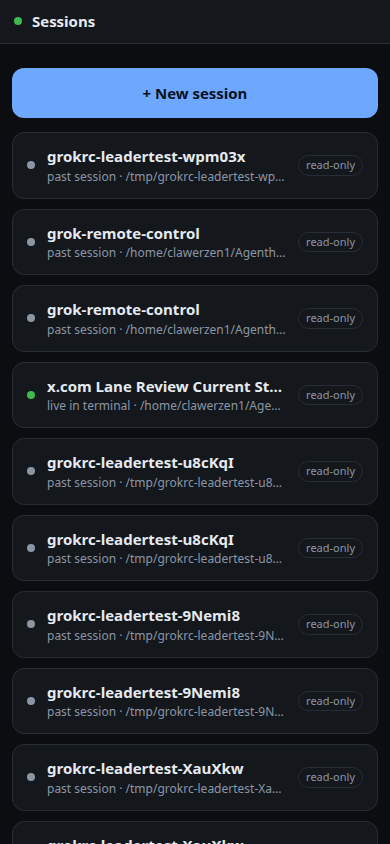
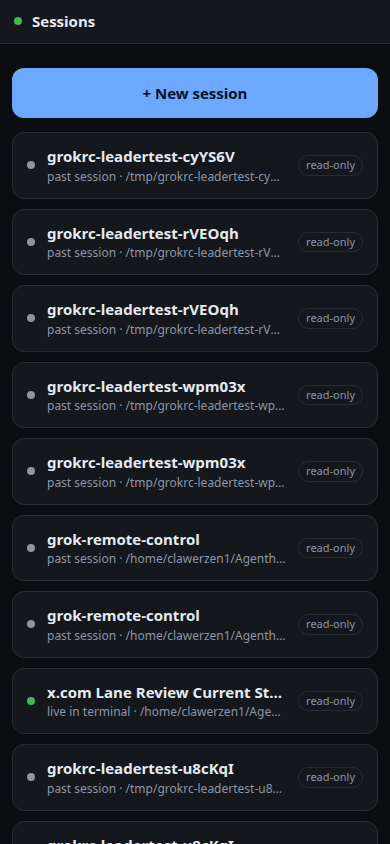
Client reconnect: keep the session, stop dropping typed messages
First sweep of web/app.js — the file with the highest defect rate and, until now,
the least scrutiny. Run under the bug-sweep directive: reproduce first, verify
both sides, evidence per claim.

FINDING 1 — a reconnect threw you out of your session.  REPRODUCED
  `ready` unconditionally called show(vList). On the FIRST connect that is
  correct; on a RECONNECT the user is usually mid-session, so a network blip
  dumped them back to the list with no explanation — losing their place while a
  turn was still running. Now reopens the session that was in view.

FINDING 2 — a prompt typed while disconnected vanished.  REPRODUCED
  sendMsg() returned early when readyState !== 1, silently discarding the
  payload. Same failure mode as the swallowed prompt rejection fixed earlier:
  the user types, presses send, and nothing happens anywhere.
  User-authored messages (prompt, approve) are now queued and flushed on
  reconnect with a visible notice. Bookkeeping frames are still dropped —
  replaying a stale `sessions` request after reconnect is noise.

TEST DISCIPLINE — the part worth recording
  The first version of the reconnect test PASSED against the buggy code. It
  waited on the `live` indicator, but setConn('live') fires on socket OPEN,
  before the `ready` frame is handled — so it sampled the view before `ready`
  could switch it, and reported the bug as absent.
  Caught only because the directive requires running the corrected test against
[…]

diff --git a/test/reconnect.test.ts b/test/reconnect.test.ts
@@ -1,0 +1,139 @@
+/**
+ * Connection-layer behaviour in the browser client.
+ *
+ * Written BEFORE the fixes, to establish whether these are real defects or just
+ * things that look wrong when read (directive D1). Each case drives the real PWA
+ * in Chromium against a real daemon, then disrupts the socket.
+ */
+import { strict as assert } from 'node:assert';
+import { test, before, after } from 'node:test';
+import { mkdtemp, rm } from 'node:fs/promises';
+import { tmpdir } from 'node:os';
+import { join, resolve } from 'node:path';
+import { chromium, type Browser, type Page } from 'playwright';
+
+const tmp = await mkdtemp(join(tmpdir(), 'grokrc-reconnect-'));
+process.env.GROKRC_HOME = tmp;
+
+const { AuthStore } = await import('../src/daemon/auth.ts');
+const { SessionManager } = await import('../src/daemon/session-manager.ts');
+const { RemoteControlServer } = await import('../src/daemon/server.ts');
+const { MockTransport } = await import('../src/acp/mock-transport.ts');
+
+let n = 0;
+const auth = new AuthStore();
+await auth.load();
+const sessions = new SessionManager({
+  transportFactory: () => new MockTransport({ sessionId: `rc-${++n}` }),
+});
+const server = new RemoteControlServer({
+  host: '127.0.0.1',
+  port: 0,
+  webRoot: resolve(import.meta.dirname, '../web'),
+  sessions,
+  auth,
+  defaultCwd: '/tmp/demo',
+});
+const { port } = await server.listen();
+const base = `http://127.0.0.1:${port}`;
+
+let browser: Browser;
+let page: Page;
+
+before(async () => {
+  browser = await chromium.launch();
+  const ctx = await browser.newContext({ viewport: { width: 390, height: 844 } });
+  page = await ctx.newPage();
+
+  const { code } = auth.beginPairing();
+  await page.goto(base);
+  await page.fill('#code', code);
+  await page.click('#pair-go');
+  await page.waitForSelector('#v-list.on', { timeout: 20_000 });
+});
+
+after(async () => {
+  await browser?.close();
+  sessions.closeAll();
+  await server.close();
+  await rm(tmp, { recursive: true, force: true });
+});
+
+/** Force a socket drop from inside the page, as a network blip would. */
+async function dropSocket(): Promise<void> {
+  await page.evaluate(() => {
+    // Close with a non-4401 code so the client takes its reconnect path.
+    const s = (globalThis as unknown as { __rcws?: WebSocket }).__rcws;
+    // 1006 is reserved and browsers refuse to send it; 4000 is a valid app code
+    // that is NOT 4401, so the client takes its reconnect path.
+    s?.close(4000, 'simulated drop');
+  });
+}
+
+test('a session can be opened', async () => {
+  await page.click('#v-list button.btn-primary');
+  await page.waitForSelector('#v-session.on', { timeout: 20_000 });
+  assert.equal(await page.isVisible('#composer'), true);
+});
+
+test('the client survives a socket drop and stays in the session', async () => {
+  // The bug under test: on reconnect the client handles `ready` by calling
+  // show(vList), which throws you out of the session you were reading —
+  // mid-turn, with no way to know why.
+  const before = (await page.textContent('#title'))?.trim();
+
+  await dropSocket();
+
+  // Waiting on the `live` indicator alone is NOT enough: setConn('live') fires
+  // on socket OPEN, before the `ready` frame is handled. An earlier version of
+  // this test did exactly that and passed against the buggy code, because it
+  // sampled the view before `ready` could switch it. Wait for the socket to be
+  // genuinely OPEN *and* for a full round trip to have been processed.
+  await page.waitForFunction(
+    () => {
+      const ws = (globalThis as unknown as { __rcws?: WebSocket }).__rcws;
+      return ws?.readyState === 1;
+    },
+    undefined,
+    { timeout: 20_000 }
+  );
+  // Give the ready/sessions handling a beat to run to completion.
+  await page.waitForTimeout(1500);
+
+  const sessionStillOpen = await page.evaluate(
+    () => document.getElementById('v-session')?.classList.contains('on') ?? false
+  );
+  const after = (await page.textContent('#title'))?.trim();
+
+  assert.equal(
+    sessionStillOpen,
+    true,
+    `reconnect kicked the user back to the session list (title was "${before}", now "${after}")`
+  );
+});
+
+test('a prompt sent while disconnected is reported, not silently dropped', async () => {
+  // sendMsg() returns early when readyState !== 1, so the message vanishes with
+  // no feedback — the same failure mode as the swallowed prompt rejection.
+  await page.evaluate(() => {
+    const s = (globalThis as unknown as { __rcws?: WebSocket }).__rcws;
+    s?.close(4000, 'drop before send');
+  });
+
+  await page.fill('#input', 'this must not vanish');
+  await page.click('#send');
+
+  const surfaced = await page
+    .waitForFunction(
+      () => {
+        const t = document.getElementById('v-session')?.textContent ?? '';
+        return /reconnect|not connected|disconnected|queued/i.test(t);
+      },
+      undefined,
+      { timeout: 8000 }
+    )
+    .then(() => true)
+    .catch(() => false);
+
+  assert.equal(surfaced, true, 'a prompt sent while offline disappeared with no message');
+});

diff --git a/web/app.js b/web/app.js
@@ -185,6 +185,9 @@ function connect() {
     : '';
   const ws = new WebSocket(`${proto}://${location.host}${path}`);
   state.ws = ws;
+  // Test hook: browser tests need to simulate a network drop, and there is no
+  // other way to reach a module-scoped socket from page.evaluate().
+  globalThis.__rcws = ws;
 
   ws.addEventListener('open', () => {
     state.backoff = 500;
@@ -225,20 +228,56 @@ function connect() {
 // Outbound frames are sealed in relay mode. Chained for the same ordering
 // reason as inbound — an approval answer must not overtake the prompt.
 let outbound = Promise.resolve();
+
+/**
+ * Send, or say why not.
+ *
+ * This used to `return` silently when the socket wasn't open, so a prompt typed
+ * during a reconnect vanished with no feedback at all — the same failure mode as
+ * the swallowed prompt rejection in the daemon. Anything the user *typed* is now
+ * queued and flushed on reconnect; bookkeeping frames are dropped, because
+ * replaying a stale `sessions` request after reconnect is noise.
+ */
+const outboundQueue = [];
+const QUEUEABLE = new Set(['prompt', 'approve']);
+
 function sendMsg(payload) {
   const raw = JSON.stringify(payload);
   outbound = outbound.then(async () => {
-    if (state.ws?.readyState !== 1) return;
+    if (state.ws?.readyState !== 1) {
+      if (QUEUEABLE.has(payload.t)) {
+        outboundQueue.push(payload);
+        appendError('Not connected — will send when the connection returns.');
+      }
+      return;
+    }
     state.ws.send(await sealIfRelayed(raw));
   });
+}
+
+/** Replay anything the user typed while the socket was down. */
+function flushOutbound() {
+  if (!outboundQueue.length) return;
+  const pending = outboundQueue.splice(0);
+  appendError(`Reconnected — sending ${pending.length} queued message(s).`);
+  for (const p of pending) sendMsg(p);
 }
 
 function handle(msg) {
   switch (msg.t) {
     case 'ready':
       state.leaderMode = !!msg.leaderMode;
-      show(el.vList);
+      // On a RECONNECT the user is usually mid-session. Unconditionally showing
+      // the list threw them out of the transcript they were reading — often
+      // mid-turn, with no explanation. Reopen what they had instead.
+      if (state.current) {
+        show(el.vSession);
+        sendMsg({ t: 'open', sessionId: state.current.id, cwd: state.current.cwd });
+      } else {
+        show(el.vList);
+      }
       sendMsg({ t: 'sessions' });
+      flushOutbound();
       break;
     case 'sessions':
       state.sessions = msg.sessions;
